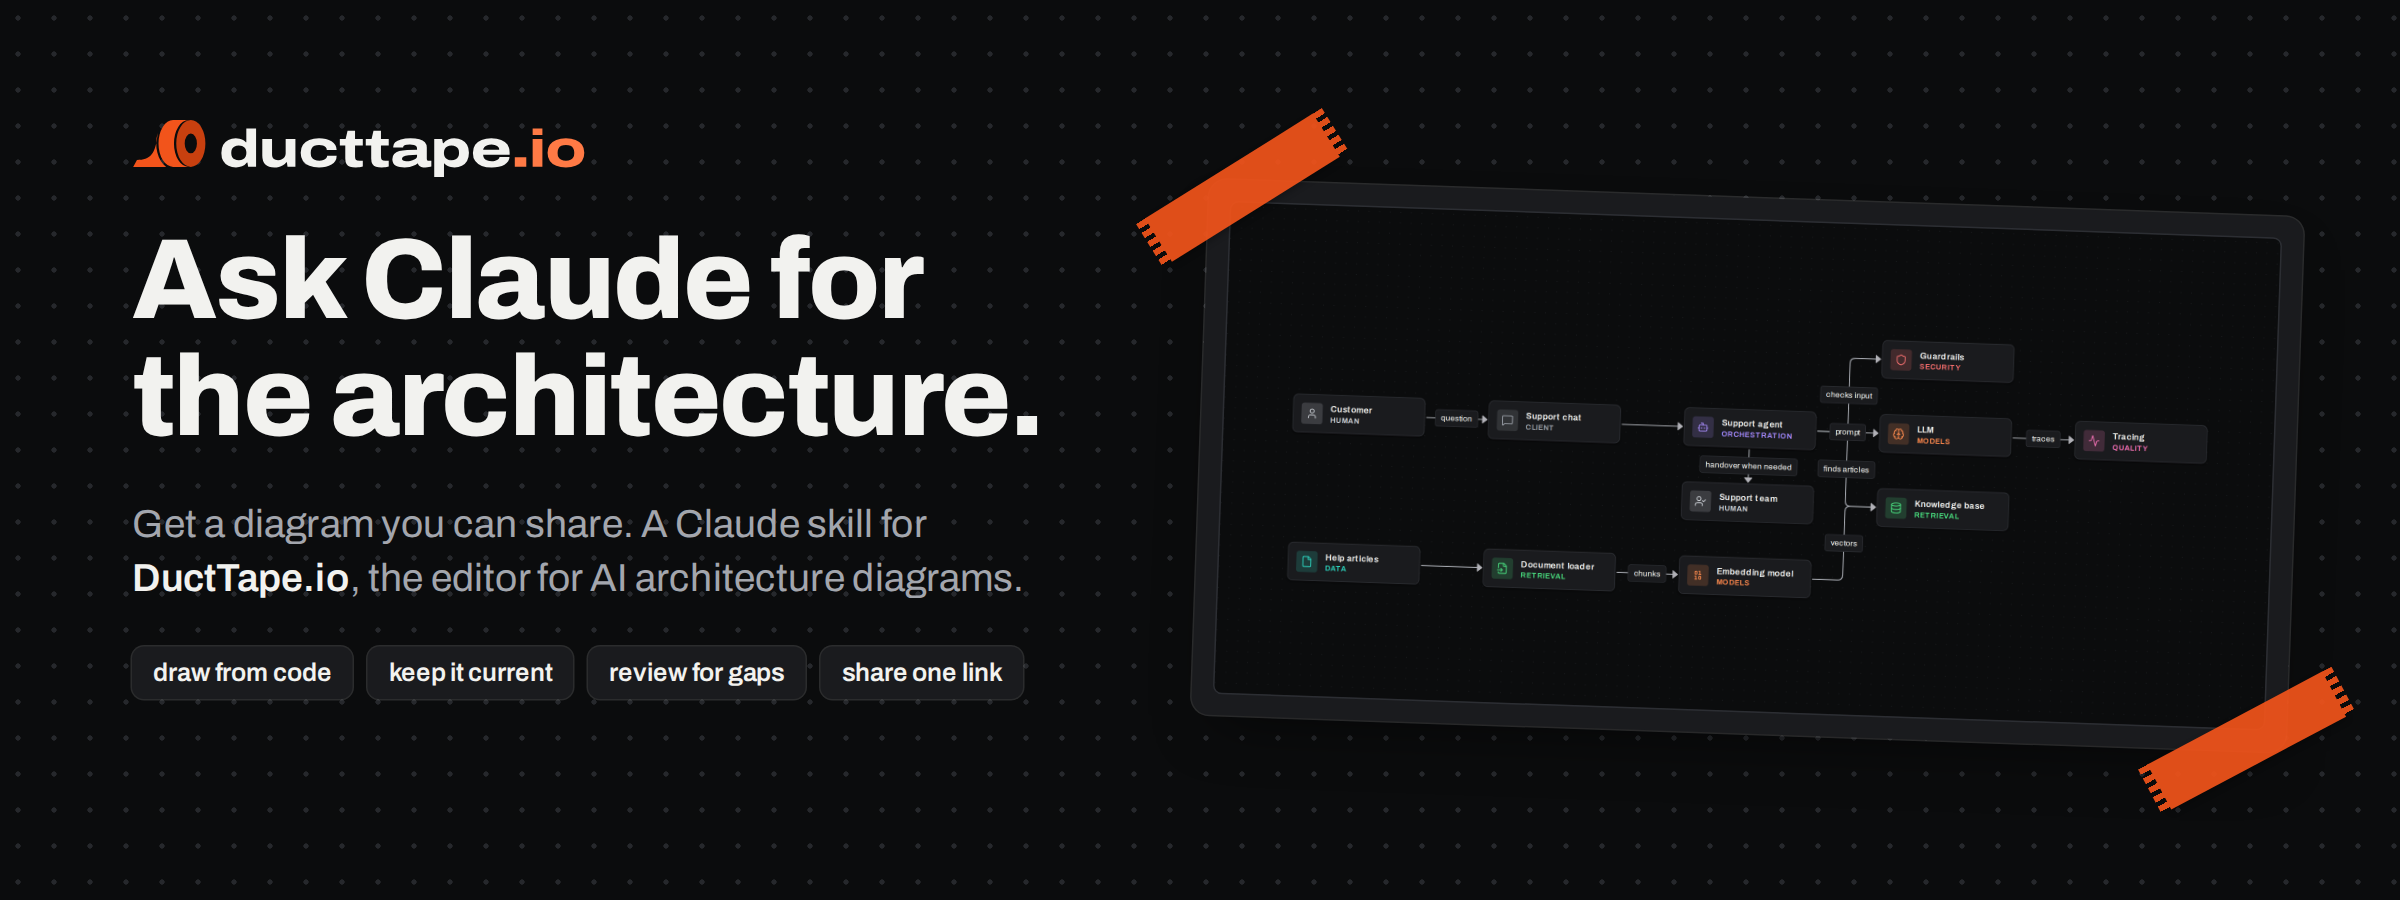
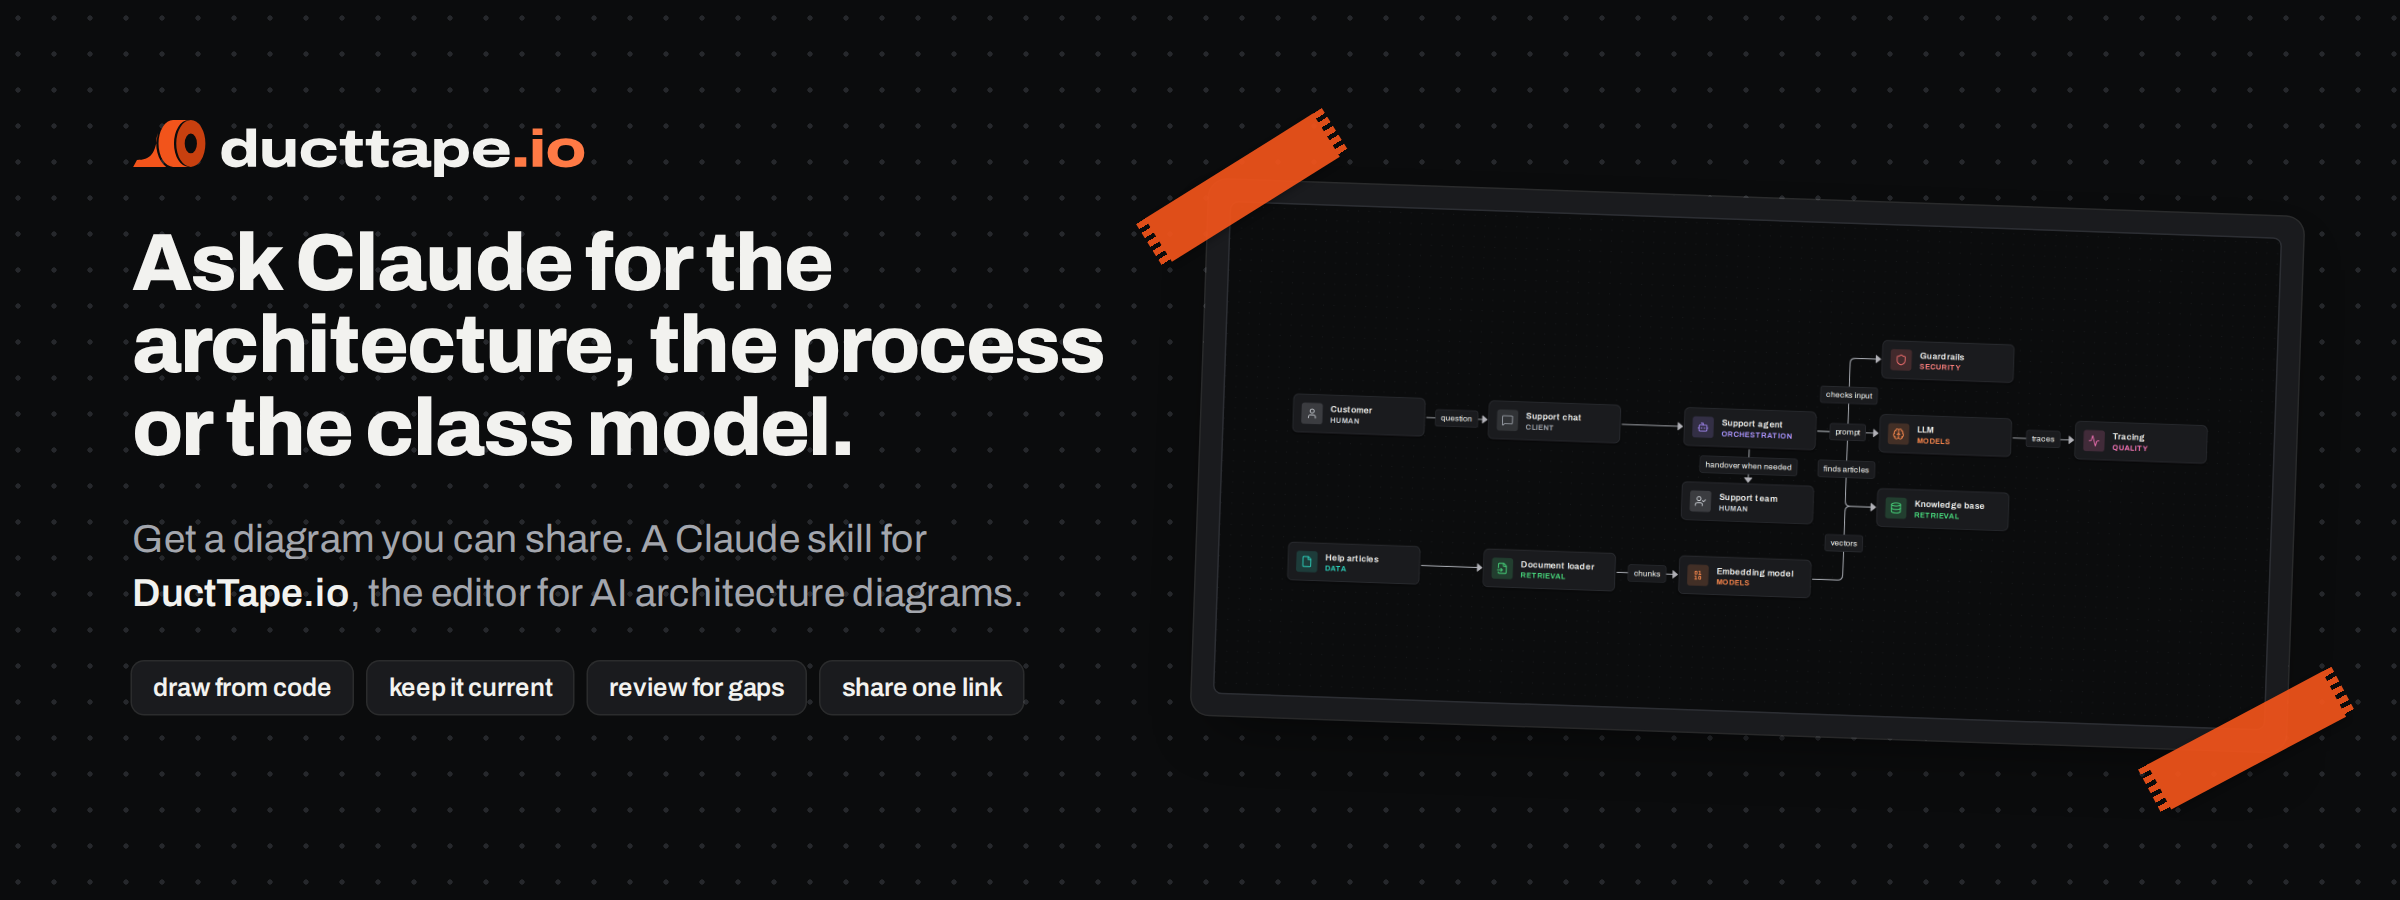
README for 1.14.0: processes and class models, BPMN example with an AI lane, gallery with four diagrams

Changed region(s): [[0.0312, 0.2489, 0.4688, 0.5289], [0.0312, 0.56, 0.4375, 0.6844], [0.0625, 0.7156, 0.4375, 0.7778]]

diff --git a/README.md b/README.md
@@ -2,16 +2,18 @@
   <a href="https://theducttape.io">
   <picture>
     <source media="(prefers-color-scheme: dark)" srcset="docs/banner-dark.png">
-    <img src="docs/banner.png" alt="DuctTape.io: Ask Claude for the architecture. Get a diagram you can share." width="100%">
+    <img src="docs/banner.png" alt="DuctTape.io: Ask Claude for the architecture, the process or the class model. Get a diagram you can share." width="100%">
   </picture>
   </a>
 </p>
 
 # DuctTape.io skill for Claude
 
-**Ask Claude for the architecture. Get a diagram you can share.**
+**Ask Claude for the architecture, the process or the class model. Get a diagram you can share.**
 
-Your AI stack lives in code, in config files and in three people's heads. This skill lets Claude turn it into a real architecture diagram on [DuctTape.io](https://theducttape.io): typed components, labelled connections, one link for everyone who needs to understand it.
+Your AI stack lives in code, in config files and in three people's heads. So does the process it serves. This skill lets Claude turn both into real diagrams on [DuctTape.io](https://theducttape.io): typed components, labelled connections, one link for everyone who needs to understand it.
+
+Claude now draws more than architecture. It models business processes in BPMN and as event-driven process chains, the code behind them as UML class diagrams, and the decisions in DMN. All of it can sit in one diagram with the AI components that do the work.
 
 No boxes to drag, no arrows to straighten. You describe or point at the code, Claude draws.
 
@@ -23,6 +25,8 @@ No boxes to drag, no arrows to straighten. You describe or point at the code, Cl
 </p>
 
 ## What you can ask
+
+### Architecture
 
 **"Draw the architecture of this repository."**
 Claude reads the entry points, model calls, vector stores, queues and tools, and hands you a diagram of how a request really flows.
@@ -39,8 +43,28 @@ Claude walks along the path of a request, from the user to the answer.
 **"Give me a starting point for a RAG with an agent on top."**
 Typical architectures are built in: RAG, agents with tools, gateways with fallback. Start from one and make it yours.
 
-**"Sketch three options so we can compare them."**
-Each one becomes its own diagram. Decide with pictures instead of paragraphs.
+### Processes, software and decisions
+
+**"Draw our claims process in BPMN, with the agent that checks the documents in its own lane."**
+Pools, lanes, events, gateways and tasks, plus an AI lane that holds the model and the agent a task uses. Human review stays a step of its own.
+
+**"Turn this onboarding process into an event-driven process chain."**
+Events and functions take turns, connectors split and join the paths, and every function gets its organisational unit. The AI function is connected to the component that carries it out.
+
+**"Draw the classes of this module as a UML class diagram."**
+Classes, interfaces and enumerations with their attributes and operations, inheritance, composition and multiplicities. A class that stands for a model or a vector store keeps its AI category.
+
+**"Model the credit decision in DMN, with the decision table."**
+Decisions, input data, knowledge sources and business knowledge models, a decision table with its hit policy, and the AI decision connected to the model that takes it.
+
+**"Here is our Mermaid flowchart from the docs. Make it a diagram."**
+Claude imports Mermaid flowcharts, architecture diagrams and class diagrams and matches the labels against the catalog. The way back works too: export to Mermaid, edit the text, and update the diagram in the editor without losing positions.
+
+**"Give me one overview, and let each service open its own diagram."**
+A component, a group, a BPMN task, an EPC function or a DMN decision can point to another of your diagrams. One click on the mark opens the detail.
+
+**"Put the old drafts from the hackathon into the archive."**
+Claude moves diagrams to the archive or the trash and brings them back, only when you ask and after it has named the diagrams it means. Deleting for good stays in the app.
 
 ## What comes out
 
@@ -53,11 +77,22 @@ Each one becomes its own diagram. Decide with pictures instead of paragraphs.
   </a>
 </p>
 
-<p align="center"><sub>A real result. Click it to open the interactive diagram.</sub></p>
+<p align="center">
+  <a href="https://theducttape.io/d/vvutzEaF8Jaa">
+  <picture>
+    <source media="(prefers-color-scheme: dark)" srcset="docs/process-ai-lane-dark.png">
+    <img src="docs/process-ai-lane.png" alt="A BPMN process drawn on DuctTape.io: a pool with two lanes and an AI lane, an AI task, an LLM in the AI lane, a human review, a start and an end event and an exclusive gateway" width="100%">
+  </picture>
+  </a>
+</p>
 
-- **A diagram that knows what it shows.** Typed components from LLM, vector DB and agent to MCP server, guardrails and human in the loop. Every component knows what it is, so diagrams stay consistent and readable.
+<p align="center"><sub>Real results. Click one to open the interactive diagram.</sub></p>
+
+- **A diagram that knows what it shows.** Typed components from LLM, vector DB and agent to MCP server, guardrails and human in the loop, and the shapes of BPMN, EPC, UML and DMN. Every component knows what it is, so diagrams stay consistent and readable.
+- **A check that knows the notation.** DuctTape.io checks every diagram and gives notes, never errors: a component nothing leads to, a BPMN pool without an end event, an EPC function without its unit, an AI task with no model behind it. Claude fixes what the notes point at.
 - **Your vendors, where they belong.** The catalog knows the vendors of the AI stack. Claude names one only where your system really uses it.
 - **A link into the editor.** Move things around, add detail, change your mind. It is your diagram.
+- **Text formats for your docs.** Claude exports a diagram as Mermaid, as D2, or as a Markdown or AsciiDoc document with the diagram as code and tables of its components and connections. In the editor you also export PDF, PNG, SVG, BPMN 2.0 and DMN files.
 - **One fixed link to share.** Publish when you are ready. Whoever opens the link needs no account, and the same link shows the new version whenever you publish an update.
 
 ## Two ways to work
@@ -65,10 +100,12 @@ Each one becomes its own diagram. Decide with pictures instead of paragraphs.
 | | With a connection | Without |
 |---|---|---|
 | Setup | An access token and one command | None |
-| What Claude does | Creates and updates drafts right in your account | Writes a diagram file |
+| What Claude does | Creates and updates drafts right in your account, imports Mermaid, exports text formats, files diagrams in the archive or trash on request | Writes a diagram file |
 | What you get | A link to the editor | A file for "Import from JSON" |
 
-Either way Claude works on drafts only. Publishing and deleting stay with you.
+Either way Claude works on drafts. Publishing and deleting for good stay with you.
+
+Over the connection, BPMN, EPC, UML and DMN each come with a licence on your account. New accounts start with all of them. Without a connection the script writes the file for every notation, and the editor opens it.
 
 ## Install in two minutes
 
@@ -100,10 +137,10 @@ From now on "draw this" ends with a link instead of a file. The full guide is at
 
 | Path | Content |
 |---|---|
-| `skills/ducttape/SKILL.md` | Workflows and limits |
+| `skills/ducttape/SKILL.md` | Workflows, the notations (BPMN, EPC, UML, DMN), Mermaid and the other exports, links between diagrams, limits |
 | `skills/ducttape/reference/modelling.md` | Which component for what, how to label connections, typical architectures, the review checklist |
-| `skills/ducttape/reference/catalog.json` | Component kinds and vendors, generated from the app's own catalog |
-| `skills/ducttape/scripts/prepare-diagram.mjs` | Checks a diagram file and arranges the components. Node.js 18 or later, no dependencies |
+| `skills/ducttape/reference/catalog.json` | Component kinds, vendors and the shapes of every notation, generated from the app's own catalog |
+| `skills/ducttape/scripts/prepare-diagram.mjs` | Checks a diagram file and arranges it, each notation in its own way. Node.js 18 or later, no dependencies |
 
 The script also works on its own:
 
@@ -119,7 +156,7 @@ node skills/ducttape/scripts/prepare-diagram.mjs graph.json "My diagram.json"
   <a href="https://theducttape.io/examples">
   <picture>
     <source media="(prefers-color-scheme: dark)" srcset="docs/gallery-dark.png">
-    <img src="docs/gallery.png" alt="Three typical architectures: RAG support agent, multi-agent workflow, LLM gateway with fallback" width="100%">
+    <img src="docs/gallery.png" alt="Typical diagrams: a RAG support agent, a BPMN process with an AI lane, a multi-agent workflow and an LLM gateway with fallback" width="100%">
   </picture>
   </a>
 </p>
@@ -130,4 +167,4 @@ Reference architectures as interactive diagrams: [theducttape.io/examples](https
 
 The version is in the front matter of `SKILL.md`. This repository mirrors the skill that ships with the app; changes are made there and published here.
 
-[MIT](LICENSE), copyright TheDuctTape.io. Vendor names in the catalog are trademarks of their respective owners.
+[MIT](LICENSE), copyright TheDuctTape.io. Vendor names in the catalog are trademarks of their respective owners. BPMN, UML and DMN are trademarks of the Object Management Group; the names only describe the standards these shapes represent, and DuctTape.io is not affiliated with, reviewed or certified by the Object Management Group.
